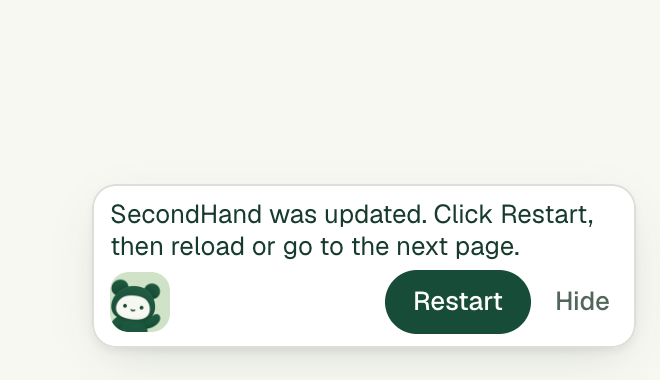
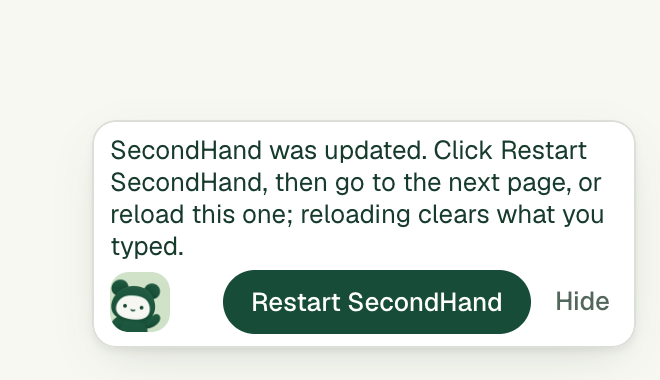
fix: say Restart SecondHand on the update card, and that reloading clears what was typed
Two reviewers asked what "Restart" would restart, their computer or SecondHand.
The update card's button is the side panel's "Restart SecondHand", and its line
warns, as the side panel's does, that reloading clears what the reader typed.
Where a language makes that button, or Open SecondHand, too wide to sit beside
Hide, its words wrap onto a second line instead of pushing Hide off the card.

Changed region(s): [[0.1212, 0.3474, 0.9697, 0.8974], [0.1515, 0.3184, 0.1818, 0.3474]]

diff --git a/extension/strings.js b/extension/strings.js
@@ -165,8 +165,7 @@
     'widget.offerTitle': 'Show this page’s questions in English in SecondHand’s side panel',
     'widget.languageCheckFailed': 'SecondHand couldn’t check this page’s language.',
     'widget.outdated': 'SecondHand was updated.',
-    'widget.outdatedLong': 'SecondHand was updated. Click Restart, then reload or go to the next page.',
-    'widget.restart': 'Restart',
+    'widget.outdatedLong': 'SecondHand was updated. Click Restart SecondHand, then go to the next page, or reload this one; reloading clears what you typed.',
     'widget.restartTitle': 'Restart SecondHand to finish its update. Then reload this page.',
 
     // Pages newer than the worker Chrome still runs. The widget can't ask an outdated worker for a larger frame,
@@ -669,8 +668,7 @@
     'widget.offerTitle': 'Mostrar las preguntas de esta página en español en el panel lateral de SecondHand',
     'widget.languageCheckFailed': 'SecondHand no pudo comprobar el idioma de esta página.',
     'widget.outdated': 'SecondHand se actualizó.',
-    'widget.outdatedLong': 'SecondHand se actualizó. Haga clic en “Reiniciar” y luego recargue o pase a la página siguiente.',
-    'widget.restart': 'Reiniciar',
+    'widget.outdatedLong': 'SecondHand se actualizó. Haga clic en “Reiniciar SecondHand” y luego pase a la página siguiente, o recargue esta; recargarla borra lo que escribió.',
     'widget.restartTitle': 'Reinicie SecondHand para terminar su actualización. Luego recargue esta página.',
 
     'panel.outdated': 'SecondHand se actualizó y necesita reiniciarse. Este panel lateral se cerrará. Para volver a usar SecondHand, pase a la página siguiente de su formulario o recargue la página; recargarla borra lo que escribió.',
@@ -1167,8 +1165,7 @@
     'widget.offerTitle': 'Hiển thị các câu hỏi của trang này bằng tiếng Việt trong bảng bên của SecondHand',
     'widget.languageCheckFailed': 'SecondHand không kiểm tra được ngôn ngữ của trang này.',
     'widget.outdated': 'SecondHand đã được cập nhật.',
-    'widget.outdatedLong': 'SecondHand đã được cập nhật. Bấm “Khởi động lại”, rồi tải lại hoặc sang trang kế tiếp.',
-    'widget.restart': 'Khởi động lại',
+    'widget.outdatedLong': 'SecondHand đã được cập nhật. Bấm “Khởi động lại SecondHand”, rồi sang trang kế tiếp, hoặc tải lại trang này; tải lại sẽ xóa những gì bạn đã nhập.',
     'widget.restartTitle': 'Khởi động lại SecondHand để hoàn tất cập nhật. Sau đó hãy tải lại trang này.',
 
     'panel.outdated': 'SecondHand đã được cập nhật và cần khởi động lại. Bảng bên này sẽ đóng. Để dùng lại SecondHand, hãy chuyển sang trang kế tiếp của biểu mẫu, hoặc tải lại trang đó; tải lại sẽ xóa những gì bạn đã nhập.',
@@ -1666,8 +1663,7 @@
     'widget.offerTitle': '在 SecondHand 侧边栏中用中文显示此页面的问题',
     'widget.languageCheckFailed': 'SecondHand 无法检查此页面的语言。',
     'widget.outdated': 'SecondHand 已更新。',
-    'widget.outdatedLong': 'SecondHand 已更新。请点击“重新启动”，然后重新加载或进入下一页。',
-    'widget.restart': '重新启动',
+    'widget.outdatedLong': 'SecondHand 已更新。请点击“重新启动 SecondHand”，然后进入下一页，或重新加载此页；重新加载会清除您输入的内容。',
     'widget.restartTitle': '重新启动 SecondHand 以完成更新，然后重新加载此页面。',
 
     'panel.outdated': 'SecondHand 已更新，需要重新启动。此侧边栏将会关闭。要继续使用 SecondHand，请进入表格的下一页，或重新加载该页面；重新加载会清除您输入的内容。',
@@ -2165,8 +2161,7 @@
     'widget.offerTitle': 'Afficher les questions de cette page en français dans le panneau latéral de SecondHand',
     'widget.languageCheckFailed': 'SecondHand n’a pas pu vérifier la langue de cette page.',
     'widget.outdated': 'SecondHand a été mis à jour.',
-    'widget.outdatedLong': 'SecondHand a été mis à jour. Cliquez sur « Redémarrer », puis rechargez ou passez à la page suivante.',
-    'widget.restart': 'Redémarrer',
+    'widget.outdatedLong': 'SecondHand a été mis à jour. Cliquez sur « Redémarrer SecondHand », puis passez à la page suivante, ou rechargez celle-ci ; recharger efface ce que vous avez saisi.',
     'widget.restartTitle': 'Redémarrez SecondHand pour terminer sa mise à jour. Rechargez ensuite cette page.',
 
     'panel.outdated': 'SecondHand a été mis à jour et doit redémarrer. Ce panneau latéral va se fermer. Pour utiliser de nouveau SecondHand, passez à la page suivante de votre formulaire, ou rechargez sa page ; recharger efface ce que vous avez saisi.',
@@ -2664,8 +2659,7 @@
     'widget.offerTitle': 'عرض أسئلة هذه الصفحة بالعربية في اللوحة الجانبية لـ SecondHand',
     'widget.languageCheckFailed': 'لم يتمكن SecondHand من معرفة لغة هذه الصفحة.',
     'widget.outdated': 'تم تحديث SecondHand.',
-    'widget.outdatedLong': 'تم تحديث SecondHand. انقر على “إعادة التشغيل”، ثم أعد التحميل أو انتقل إلى الصفحة التالية.',
-    'widget.restart': 'إعادة التشغيل',
+    'widget.outdatedLong': 'تم تحديث SecondHand. انقر على “إعادة تشغيل SecondHand”، ثم انتقل إلى الصفحة التالية، أو أعد تحميل هذه الصفحة؛ إعادة التحميل تمسح ما كتبته.',
     'widget.restartTitle': 'أعد تشغيل SecondHand لإكمال تحديثه، ثم أعد تحميل هذه الصفحة.',
 
     'panel.outdated': 'تم تحديث SecondHand ويحتاج إلى إعادة التشغيل. ستُغلق هذه اللوحة الجانبية. لاستخدام SecondHand من جديد، انتقل إلى الصفحة التالية من نموذجك، أو أعد تحميل صفحته؛ إعادة التحميل تمسح ما كتبته.',

diff --git a/extension/panel.css b/extension/panel.css
@@ -23,6 +23,9 @@ body.launcher-surface{background:none}#launcher{width:100%;height:100%;display:f
 .widget{display:flex;flex-direction:column;justify-content:center;gap:4px;padding:6px 8px;background:#fff;border:1px solid var(--border);border-radius:12px}.widget .brand{width:30px;height:30px}.widget-logo{display:flex;flex:none;margin-inline-end:auto;padding:0;border:0;border-radius:30%;background:none}
 .widget-row{display:flex;align-items:center;gap:8px;min-width:0}
 .widget-primary{flex:none;height:32px;padding:0 14px;border:0;border-radius:100px;background:var(--primary);color:#fff;font-weight:500;white-space:nowrap}.widget-primary:hover:enabled{background:var(--pressed)}
+/* The buttons that name SecondHand can be too long for the card beside Hide in some languages: their words wrap
+   onto a second line before Hide is pushed off the card. */
+#restart,#open-app{flex:0 1 auto;height:auto;min-height:32px;padding-block:6px;line-height:16px;white-space:normal;text-align:center}
 /* The card's text is the side panel's size. */
 .widget-link{padding:0;border:0;background:none;font-weight:500;line-height:16px;text-decoration:underline;text-underline-offset:3px;white-space:nowrap}#need-you{font-weight:600}#translate-offer{align-self:flex-start}
 #widget-text{line-height:16px;min-width:0;overflow:hidden;display:-webkit-box;-webkit-box-orient:vertical;-webkit-line-clamp:6}

diff --git a/extension/panel.html b/extension/panel.html
@@ -28,7 +28,7 @@
         <button id="unlock" class="widget-primary" type="button" data-i18n="panel.unlock" hidden></button>
         <button id="open-app" class="widget-primary" type="button" data-i18n="desktop.open" hidden></button>
         <button id="stop" class="widget-primary" type="button" data-i18n="widget.stop" data-i18n-title="widget.stopTitle" hidden></button>
-        <button id="restart" class="widget-primary" type="button" data-i18n="widget.restart" data-i18n-title="widget.restartTitle" hidden></button>
+        <button id="restart" class="widget-primary" type="button" data-i18n="panel.restart" data-i18n-title="widget.restartTitle" hidden></button>
         <button id="hide" class="widget-hide" type="button" data-i18n="widget.hide" data-i18n-title="widget.hideTitle"></button>
       </div>
     </div>
